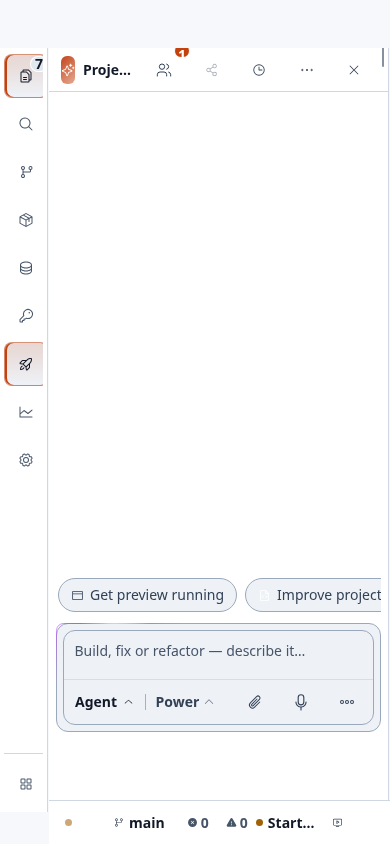
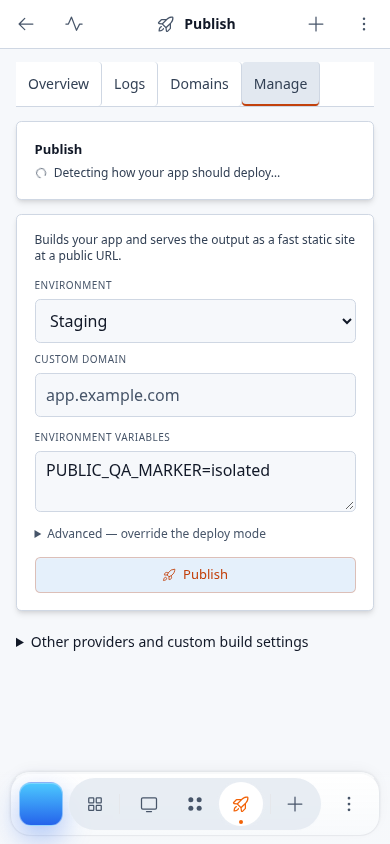
test(deploy): preserve integrated inventory and mobile viewport evidence

diff --git a/tests/e2e/publish-canonical-flow.spec.ts b/tests/e2e/publish-canonical-flow.spec.ts
@@ -203,6 +203,9 @@ test('real unavailable detection allows explicit mode override; double click sen
   expect(sent[2].provider).toBe('static');
   expect(sent[2]).not.toHaveProperty('machineSize');
   await page.setViewportSize({ width: 390, height: 844 });
+
+  // Wait for the mobile shell to render, not only for retained hidden form state.
+  await expect(managed.locator('textarea[name="envVars"]')).toBeInViewport();
   await expect(
     host.locator('.bolt-project-tool-tabs').getByRole('button', { name: /^(Manage|Gérer)$/ }),
   ).toHaveAttribute('aria-current', 'page');

diff --git a/docs/bugs/BUG-DEPLOY-NAVIGATION-CANONICAL-20261025.md b/docs/bugs/BUG-DEPLOY-NAVIGATION-CANONICAL-20261025.md
@@ -43,3 +43,9 @@ La CI suivante a révélé trois gardes restantes : ancien composant DeploySubNa
 Trois recettes E2E historiques dépendaient de l’ancienne page autonome : contre-épreuve 3/3 rouges. Elles sont migrées sans dérogation, en conservant géométrie/compte/thèmes, deux champs et seuils de contraste ; le premier déploiement exige désormais Publier actif et aucun Republier aux trois largeurs. Premier run migré : 8/10 verts, mais contraste des placeholders trop proche des valeurs en clair (7,12) et sombre (6,89), au-dessus du maximum 6 prévu par le contrat.
 
 Le correctif `8b51f92ff` étend uniquement les tokens accessibles existants au formulaire Publish sur desktop, sans modifier les valeurs saisies ni les autres panneaux. Revue indépendante, 23 tests ciblés, typage web, lint et i18n verts. Nouvelle compilation et recette combinée **19/19 vertes en 298,2 s**, deux workers, zéro retry/skip/flaky. Contrastes mesurés : clair 4,54 (valeurs 16,67), sombre 5,26 (valeurs 18,07), sur les deux champs. 38 sources, 2 suppressions et 2307 fichiers compilés inchangés après la recette sur `8b51f92ff`. [Recette complète et captures](publish-canonical-flow-2026-10-25/legacy-e2e-followup/README.md).
+
+## Intégration des travaux concurrents
+
+Main `b502b1446` (#782 et #786) intégré sans rebase. Revue indépendante : 14 fichiers entrants strictement identiques ; BFF limité aux 4 lignes Deploy de ce lot, document restauration inchangé sémantiquement (guillemets JSON du frontmatter), index régénéré à 488 entrées. Combinaison : 234 tests/35 fichiers + 12 gardes/2 fichiers verts, typages web et API stricts verts. Les sources UI restent identiques à la recette `8b51f92ff`.
+
+La première capture mobile avait été prise pendant la transition ; un complément ciblé attend désormais le champ dans le viewport et passe 1/1 en 91,6 s, sans modifier le produit. La preuve visuelle a été corrigée, sans réattribuer les 19 tests initiaux à la combinaison intégrée. Compilation et recette complète de la combinaison en cours.

diff --git a/BUG_INVENTORY_LIVE.md b/BUG_INVENTORY_LIVE.md
@@ -4,7 +4,7 @@ Une entrée = un fichier dans `docs/bugs/`. Ce fichier est un index DÉRIVÉ :
 il se régénère avec `node scripts/migrer-inventaire-bugs.mjs`, et
 `scripts/index-a-jour.spec.mjs` rougit s’il diverge du dossier.
 
-487 entrées.
+488 entrées.
 
 ## Sans section
 
@@ -624,9 +624,6 @@ il se régénère avec `node scripts/migrer-inventaire-bugs.mjs`, et
 ## Sans section
 
 - [BUG-GIT-DEPLOY-WORKFLOW-20261025](docs/bugs/BUG-GIT-DEPLOY-WORKFLOW-20261025.md) — Des requêtes tardives et doubles clics rendent les panneaux Git et Déploiement incohérents ; une erreur Domains peut apparaître comme une liste vide. — 📤 Dispatché : 25 octobre 2026 : audit parallèle Git et Déploiement, base main `941d7d7fc`. PR ouvertes vérifiées avant modif · 💻 Codé : Correctifs locaux sur `fix/git-deploy-workflow-20261025`, pas intégré à main. Domains est déjà un alias de nav · ✅ Testé live : Production non certifiée ; QA production déconnectée. Recette locale compilée finale 1/1 passée en 22,9 s, san
-
-## Sans section
-
 - [BUG-DEPLOY-NAVIGATION-CANONICAL-20261025](docs/bugs/BUG-DEPLOY-NAVIGATION-CANONICAL-20261025.md) — La grille masque le doublon Domains, mais URL mobile, anciens layouts et page projet historique ouvrent encore une interface concurrente. — 📤 Dispatché : 25 octobre 2026 : delta séparé de #784, branche `fix/deploy-single-navigation-20261025`, base `66455751c`. Auc · 💻 Codé : Premier lot local commité `15dd78791`, non intégré à main : la page historique Domains redirige après autorisa · ✅ Testé live : Lot Domains : 6/6 recettes Chromium compilées passées, 115829 ms, sans retry/omission. Les trois portes histor
 
 ## Résidus non tabulaires — reportés mot pour mot

diff --git a/docs/bugs/publish-canonical-flow-2026-10-25/legacy-e2e-followup/README.md b/docs/bugs/publish-canonical-flow-2026-10-25/legacy-e2e-followup/README.md
@@ -5,3 +5,5 @@ Final product: `8b51f92ffebb1bb635d01bfc62601374f383cd5c`. The three legacy spec
 The final combined run includes all ten migrated cases and the nine canonical navigation/Publish cases. Dashboard account identity and tab geometry remain checked at 1440/1280 in both themes; placeholder ratios remain 4.5–6 and actual text greater than 2×; first-publication CTA is Publish without Republish at 1440/768/390. No test was skipped or retried.
 
 See receipt for measurements, source/build hashes and qualification of controlled publication responses. No production, external deployment or DNS validation is claimed. Earlier receipts remain unchanged; raw logs/traces/session tokens stay outside Git.
+
+A targeted follow-up strengthens the mobile check: the environment textarea must be inside the viewport after resize before retained values and the screenshot are checked. The first combined-run screenshot caught an unfinished shell transition and was rejected. The replacement screenshot was inspected after this targeted case passed. The original 19-case test hashes/results remain unchanged in the receipt; the added assertion has its own test hash and result. This follow-up still exercised compiled `8b51f92` and the existing local API process, not the subsequently integrated source tree.

diff --git a/docs/bugs/BUG-DB-RESTORE-COMPLETION-001.md b/docs/bugs/BUG-DB-RESTORE-COMPLETION-001.md
@@ -1,6 +1,6 @@
 ---
 id: BUG-DB-RESTORE-COMPLETION-001
-section: 'Reprise commerciale du 2026-10-19 — restauration DB'
+section: "Reprise commerciale du 2026-10-19 — restauration DB"
 ---
 
 ## Bug
